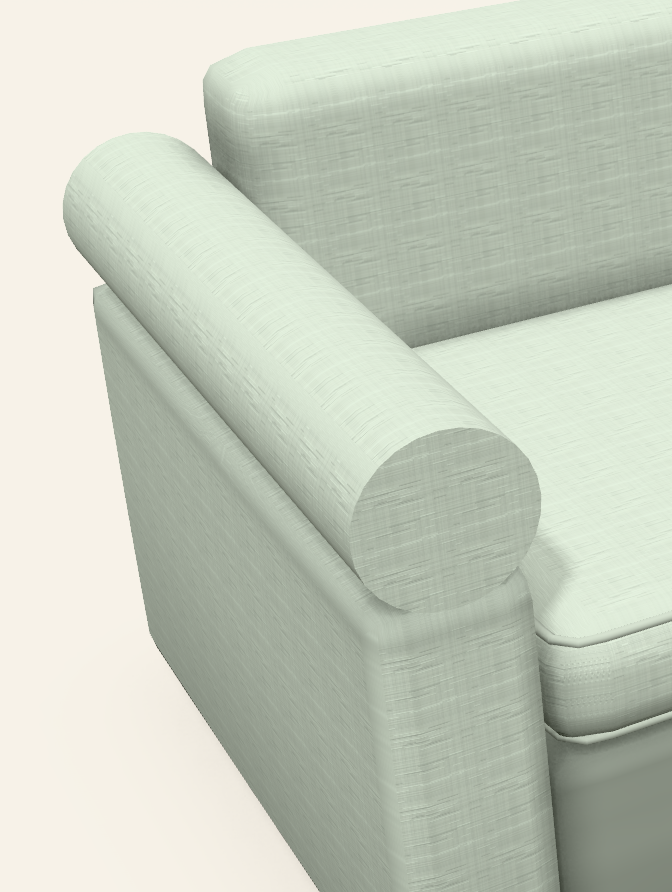
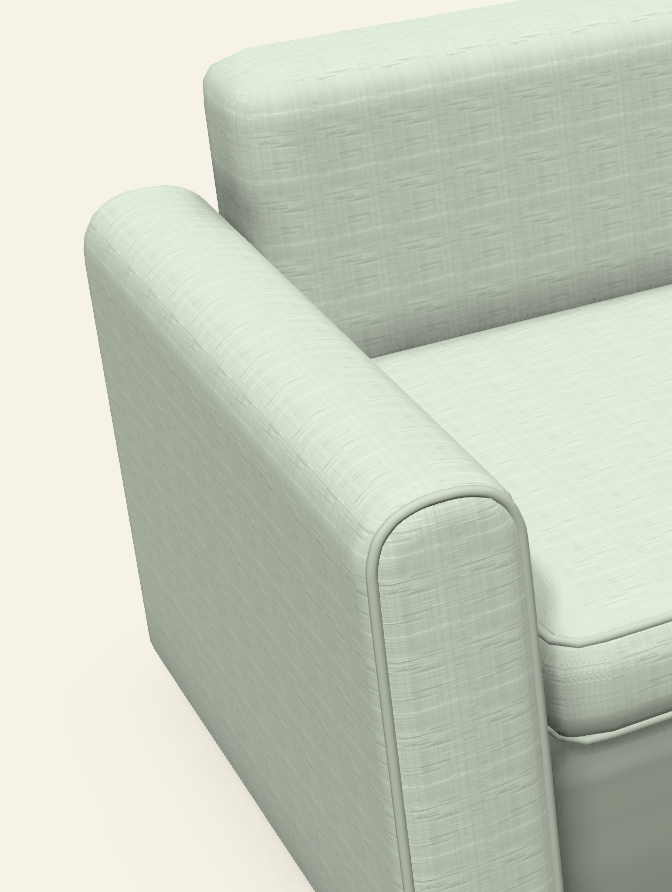
Arm met ronde bovenkant (rond, Engels): één doorsnede zoals in het vooraanzicht en op de foto van Zora
De 3D tekende deze armen als een cilinder op een blok, en hoger dan het vooraanzicht (bij 16 cm breed
9 cm boven de armhoogte, de tekening 3 cm). Op de productfoto van Zora is het een slanke arm met een ronde
bovenkant en een bies rond het voorpaneel.
- Motor: `rondProfiel` (ruimtelijk.ts): rechte zijkanten, bovenaan dezelfde kromme als `bovenRond` in het
  vooraanzicht. Rond tot armhoogte + 3, Engels tot armhoogte − 8 (benadering volgens de tekening, geen foto).
  Zelfde voorpaneel als de strakke arm (afgeronde rand, licht bol, naad of bies).
- De hulpfunctie voor de liggende cilinder is weg; de rok van een hoes blijft apart, zoals in de tekening.
Prijs, offerte, boven- en vooraanzicht van de 42 modellen: ongewijzigd. 3D anders bij Zora, Mabel 2-zit en
Mabel méridienne. Beeldvergelijking: alleen de close-up van de Zora-arm anders (referentie vernieuwd).

Claude-Session: https://claude.ai/code/session_01PczewFp9M8BS44vqTSpk6u

diff --git a/packages/core/src/ruimtelijk.ts b/packages/core/src/ruimtelijk.ts
@@ -149,12 +149,6 @@ export function bouw3D(ontwerp: Ontwerp, catalogus: OntwerpCatalogus, materialen
       const w = lokaalNaarWereld(e, lx, ly, lb, ld);
       blokken.push({ code: `${e.id}.${code}`, soort, vorm: 'blok', x: r2(w.x), y: r2(y), z: r2(w.y), b: r2(w.b), h: r2(h), d: r2(w.h), kleur, ...extra });
     };
-    /** Liggende cilinder langs de diepte (lokaal ly), bv. een rolarm. */
-    const rol = (code: string, lx: number, lb: number, y: number, kleur: string) => {
-      const w = lokaalNaarWereld(e, lx, 0, lb, D);
-      const langsX = e.rotatie === 90 || e.rotatie === 270;
-      blokken.push({ code: `${e.id}.${code}`, soort: 'stof', vorm: 'cilinder', as: langsX ? 'x' : 'z', x: r2(w.x), y: r2(y), z: r2(w.y), b: r2(w.b), h: r2(lb), d: r2(w.h), kleur });
-    };
 
     // --- Onderbouw ---
     const potVorm = String(te('poten', 'vorm', 'conisch'));
@@ -512,22 +506,24 @@ export function bouw3D(ontwerp: Ontwerp, catalogus: OntwerpCatalogus, materialen
         const armH = hoogtesVan(ontwerp, catalogus, e).armhoogte;
         const vorm = String(te('armstijl', 'vorm', 'strak'));
         if (vorm === 'hout') lokaal('arm', 'hout', 0, 0, B, D, P, armH - P, hout, { afronding: 1 });
-        else if (vorm === 'rond' || vorm === 'engels') {
-          const top = vorm === 'engels' ? armH - 8 : armH;
-          lokaal('arm', 'stof', 0, 0, B, D, P, top - P - B / 2, stof, { afronding: 2 });
-          rol('rol', -1, B + 2, top - B / 2 - 1, stof);
-        } else if (vorm === 'schuin') {
+        else if (vorm === 'schuin') {
           lokaal('arm', 'stof', 0, 0, B, D, P, armH - P - 5, stof, { afronding: 6 });
-        } else if (vorm === 'uitlopend' || vorm === 'strak') {
+        } else if (vorm === 'uitlopend' || vorm === 'strak' || vorm === 'rond' || vorm === 'engels') {
           // Arm met een eigen doorsnede (profiel) die van voor naar achter loopt; met een hoes tot op de vloer (geen aparte
           // rok eronder), anders vanaf de poten.
+          // - Rond en Engels (13/11): een slanke arm met een ronde bovenkant, dezelfde omtrek als in het vooraanzicht
+          //   (rond: tot 3 cm boven de armhoogte, Engels: 8 cm eronder). Vroeger een cilinder op een blok, hoger dan de
+          //   tekening. Rond volgt de foto van Zora (ronde bovenkant, bies rond het voorpaneel); Engels heeft geen foto:
+          //   benadering volgens de tekening. De rok van een hoes blijft hier apart, zoals in het vooraanzicht.
           // - Uitlopend (technische tekening van Wallace, vorm benaderd uit de foto): binnenkant recht tegen de zitting,
           //   buitenkant onderaan iets naar binnen en bovenaan uitlopend tot een opgerolde rand (krul) op armhoogte, naar
           //   achteren oplopend tot de hoogte van het karkas.
           // - Strak (track arm, benaderd uit de foto's van Husk, Attribute, Amusette …): rechte arm met een zacht afgeronde,
           //   licht bolle bovenkant, licht bolle zijkanten en een voorpaneel met zachte rand; hoe zacht volgt de zachtheid.
-          const onder = potVorm === 'housse' ? 0 : P;
-          const achter = vorm === 'uitlopend' ? Math.max(armH, v.karkashoogte ?? armH) : armH;
+          const rondeTop = vorm === 'rond' || vorm === 'engels';
+          const onder = potVorm === 'housse' && !rondeTop ? 0 : P;
+          const voor = vorm === 'rond' ? armH + 3 : vorm === 'engels' ? armH - 8 : armH;
+          const achter = vorm === 'uitlopend' ? Math.max(armH, v.karkashoogte ?? armH) : voor;
           // Welke lokale kant (x = 0 of x = B) ligt aan de buitenkant van de zetel?
           const buiten = naarBuiten(e);
           const w0 = lokaalNaarWereld(e, 0, 0, 1, 1), wB = lokaalNaarWereld(e, B - 1, 0, 1, 1);
@@ -539,18 +535,20 @@ export function bouw3D(ontwerp: Ontwerp, catalogus: OntwerpCatalogus, materialen
             const t = i / 14; // 0 = vooraan, 1 = achteraan
             const s = Math.max(0, Math.min(1, (t - 0.5) / 0.5));
             padLokaal.push([B / 2, D - t * D]);
-            hoogtes.push(rond1(armH + (achter - armH) * s * s * (3 - 2 * s)));
+            hoogtes.push(rond1(voor + (achter - voor) * s * s * (3 - 2 * s)));
           }
           const padW = padLokaal.map(([lx, ly]) => { const q = lokaalNaarWereld(e, lx, ly, 0, 0); return [r2(q.x), r2(q.y)] as [number, number]; });
           const hw = B / 2;
-          const profiel = vorm === 'uitlopend' ? uitlopendProfiel(B, zithoogte, onder) : strakProfiel(B, onder, armH, v.zachtheid, potVorm === 'housse');
+          const profiel = vorm === 'uitlopend' ? uitlopendProfiel(B, zithoogte, onder)
+            : rondeTop ? rondProfiel(B, onder, voor, vorm === 'rond' ? B / 2 : B / 2.2)
+            : strakProfiel(B, onder, armH, v.zachtheid, potVorm === 'housse');
           const zijden = profiel.map((q) => q[0]), wijd = Math.max(hw, ...zijden.map(Math.abs));
           const xs = padW.flatMap((q) => [q[0] - Math.abs(ux) * wijd, q[0] + Math.abs(ux) * wijd]), zs = padW.flatMap((q) => [q[1] - Math.abs(uz) * wijd, q[1] + Math.abs(uz) * wijd]);
           blokken.push({
             code: `${e.id}.arm`, soort: 'stof', vorm: 'profiel',
             x: r2(Math.min(...xs)), z: r2(Math.min(...zs)), b: r2(Math.max(...xs) - Math.min(...xs)), d: r2(Math.max(...zs) - Math.min(...zs)),
             y: r2(onder), h: r2(Math.max(...hoogtes) - onder), kleur: stof, pad: padW, hoogtes, profiel, uit: [r2(ux), r2(uz)],
-            ...(vorm === 'strak' ? { rand: rond1(Math.max(2.5, Math.min(6, (0.14 + 0.012 * v.zachtheid) * B))), kopBol: rond1(0.4 + 0.08 * v.zachtheid) } : {}),
+            ...(vorm !== 'uitlopend' ? { rand: rond1(Math.max(2.5, Math.min(6, (0.14 + 0.012 * v.zachtheid) * B))), kopBol: rond1(0.4 + 0.08 * v.zachtheid) } : {}),
           });
         } else {
           lokaal('arm', 'stof', 0, 0, B, D, P, armH - P, stof, { afronding: 3 });
@@ -663,6 +661,27 @@ export function strakProfiel(B: number, onder: number, top: number, zachtheid: n
   for (const a of [90, 135, 180]) { const r = (a * Math.PI) / 180; p.push([rond1(-hw + rTop + rTop * Math.cos(r)), rond1(ySide1 + rTop * Math.sin(r)), 0]); }
   for (const f of [0.66, 0.33]) p.push([rond1(-(hw - bol * (1 - f) ** 2)), rond1(ySide0 + f * (ySide1 - ySide0)), 0]);
   p.push([rond1(-hw + bol), rond1(ySide0), 0]);
+  return p;
+}
+
+/**
+ * Doorsnede van een arm met een ronde bovenkant (armstijl rond en Engels): punten [s, y, 0] (y absoluut), s in cm opzij
+ * van het midden. Rechte zijkanten en bovenaan twee afgeronde hoeken met straal `r` (bij r = de halve breedte één ronde
+ * boog), met dezelfde kromme als `bovenRond` in het vooraanzicht: 3D en tekening hebben zo dezelfde omtrek.
+ */
+export function rondProfiel(B: number, onder: number, top: number, r: number): [number, number, 0 | 1][] {
+  const hw = B / 2, rr = Math.max(0.5, Math.min(r, hw, top - onder - 0.5));
+  const p: [number, number, 0 | 1][] = [[-hw, onder, 0], [hw, onder, 0]];
+  const hoek = (x0: number, y0: number, sx: number, sy: number, x1: number, y1: number) => {
+    for (let k = 0; k <= 8; k++) {
+      const f = k / 8, g = 1 - f;
+      const q: [number, number, 0 | 1] = [rond1(g * g * x0 + 2 * g * f * sx + f * f * x1), rond1(g * g * y0 + 2 * g * f * sy + f * f * y1), 0];
+      const vorig = p[p.length - 1]!;
+      if (Math.hypot(q[0] - vorig[0], q[1] - vorig[1]) > 0.05) p.push(q);
+    }
+  };
+  hoek(hw, top - rr, hw, top, hw - rr, top);
+  hoek(-hw + rr, top, -hw, top, -hw, top - rr);
   return p;
 }
 

diff --git a/packages/core/test/details.test.ts b/packages/core/test/details.test.ts
@@ -52,6 +52,50 @@ describe('uitlopende arm', () => {
   });
 });
 
+describe('arm met ronde bovenkant (armstijl rond en Engels, 13/11)', () => {
+  it('rond: één doorsnede, even hoog en even breed als in het vooraanzicht (vroeger een cilinder op een blok, hoger dan de tekening)', () => {
+    for (const rotatie of [0, 90, 180, 270] as Rotatie[]) {
+      const o = bank({ naad: 'bies' }, { vormgeving: { armhoogte: 60 } }, 'rond');
+      o.elementen = [{ ...o.elementen[0]!, rotatie }];
+      const blokken = bouw3D(o, zetelCatalogus, standaardMaterialen).blokken;
+      const arm = blokken.find((b) => b.code === 'a1.arm')!;
+      expect(arm.vorm, `rotatie ${rotatie}`).toBe('profiel');
+      expect(blokken.some((b) => b.code === 'a1.rol')).toBe(false);
+      // Zelfde omtrek als bovenRond in het vooraanzicht: van de poten tot 3 cm boven de armhoogte, over de volle breedte.
+      const tekening = tekenVooraanzicht(o, zetelCatalogus, standaardMaterialen).vormen.find((v) => v.code === 'a1.arm')!;
+      const ys = arm.profiel!.map((q) => q[1]), ss = arm.profiel!.map((q) => q[0]);
+      expect(Math.max(...ys)).toBe(63);
+      expect(Math.max(...ys) - Math.min(...ys)).toBeCloseTo(tekening.hoogte!, 1);
+      // De breedte in de tekening is de kant die je van voren ziet: bij 0 en 180 de breedte van de arm.
+      if (rotatie === 0 || rotatie === 180) expect(Math.max(...ss) - Math.min(...ss)).toBeCloseTo(tekening.breedte!, 1);
+      expect(Math.max(...ss) - Math.min(...ss)).toBe(20);
+      expect(arm.y + arm.h).toBe(63);
+      // Ronde bovenkant: halverwege de breedte op volle hoogte, aan de rand een halve breedte lager.
+      expect(arm.profiel!.some((q) => Math.abs(q[0]) < 0.1 && q[1] === 63)).toBe(true);
+      expect(Math.max(...arm.profiel!.filter((q) => Math.abs(q[0]) > 9.9).map((q) => q[1]))).toBe(53);
+      // Gestoffeerd voorpaneel: afgeronde rand, licht bol, met de bies eromheen.
+      expect(arm.rand).toBeGreaterThanOrEqual(2.5);
+      expect(arm.kopBol).toBeGreaterThan(0);
+      expect(arm.naad?.soort).toBe('bies');
+    }
+  });
+  it('Engels: 8 cm onder de armhoogte, met een iets vlakkere bovenkant', () => {
+    const o = bank({}, { vormgeving: { armhoogte: 60 } }, 'engels');
+    const arm = blok(o, 'a1.arm')!;
+    const tekening = tekenVooraanzicht(o, zetelCatalogus, standaardMaterialen).vormen.find((v) => v.code === 'a1.arm')!;
+    const ys = arm.profiel!.map((q) => q[1]);
+    expect(Math.max(...ys)).toBe(52);
+    expect(Math.max(...ys) - Math.min(...ys)).toBeCloseTo(tekening.hoogte!, 1);
+    // Straal breedte / 2,2: bovenaan blijft een kort vlak stuk.
+    expect(arm.profiel!.filter((q) => q[1] === 52).length).toBeGreaterThan(1);
+  });
+  it('met een hoes blijft de rok apart, zoals in het vooraanzicht', () => {
+    const blokken = bouw3D(bank({ poten: 'housse' }, {}, 'rond'), zetelCatalogus, standaardMaterialen).blokken;
+    expect(blokken.some((b) => b.code === 'a1.housse')).toBe(true);
+    expect(blokken.find((b) => b.code === 'a1.arm')!.y).toBeGreaterThan(0);
+  });
+});
+
 describe('strakke arm', () => {
   it('eigen doorsnede: ronde, licht bolle bovenkant op armhoogte, binnen de breedte, naar buiten gericht', () => {
     const o = bank({}, { vormgeving: { armhoogte: 66, zachtheid: 6 } });

diff --git a/packages/core/test/ruimtelijk.test.ts b/packages/core/test/ruimtelijk.test.ts
@@ -41,7 +41,9 @@ describe('3D-opbouw', () => {
     const s = scene(o);
     expect(s.blokken.find((b) => b.code === 'e2.plint')).toMatchObject({ h: 4, soort: 'hout', kleur: '#5e4030' });
     expect(s.blokken.find((b) => b.code === 'e2.rugkussen')).toMatchObject({ y: 45, h: 47 });
-    expect(s.blokken.find((b) => b.code === 'e1.rol')).toMatchObject({ vorm: 'cilinder', as: 'z', d: 95 });
+    // Rolarm (13/11): één doorsnede met een ronde bovenkant, geen cilinder op een blok meer.
+    expect(s.blokken.find((b) => b.code === 'e1.rol')).toBeUndefined();
+    expect(s.blokken.find((b) => b.code === 'e1.arm')).toMatchObject({ vorm: 'profiel', d: 95 });
     expect(s.blokken.find((b) => b.code === 'e4.blad')).toMatchObject({ soort: 'hout', y: 62 });
     expect(s.kader.h).toBe(92);
   });
